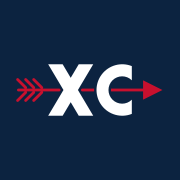
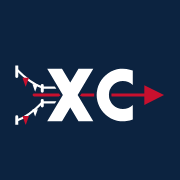
Add files via upload

Changed region(s): [[0.0833, 0.3333, 0.9167, 0.6944]]

diff --git a/index.html b/index.html
@@ -97,7 +97,12 @@ button{font:inherit;color:inherit;background:none;border:none;cursor:pointer;tou
 @keyframes splLand{from{opacity:0;transform:scale(.84)}to{opacity:1;transform:scale(1)}}
 @keyframes splFade{from{opacity:0}to{opacity:1}}
 .spl-arrow{animation:splFly .78s cubic-bezier(.16,.84,.32,1) backwards}
-/* 4.75: the new mark, XC centred at 94,36 in its 188 by 72 box. */
+/* 4.75: the new mark, XC centred at 94,36 in its 188 by 72 box.
+   4.96: the feathers became a finish chute (posts, sagging ropes, pennants,
+   a lane into the X). On the splash the chute stands still and only the
+   arrow flies, so the runner comes down the chute; the headers and icons
+   carry a small cut of the same chute (two posts a side, one rope, heavier
+   lines) since the full one turns to speckle at 26px. */
 .spl-xc{animation:splLand .38s ease-out .66s backwards;transform-origin:94px 36px}
 .spl-word{animation:splFade .55s ease-out 1.08s backwards}
 @media (prefers-reduced-motion:reduce){
@@ -942,13 +947,24 @@ body.haslive .sheet:not(.compact) .sheet-in{max-height:calc(88dvh - var(--striph
 .rnrace .rtime{flex:0 0 auto;display:flex;flex-direction:column;align-items:flex-end;gap:3px}
 .rnrace .rtime .t{font-size:17px}
 .rnrace .rtime .rec{font-size:12px}
+/* 4.95: the panel carries the team score, so our row is coral; by place under
+   a big number that entering schools will move; Meet scores rows expand. */
+.mspanel,.msbtn{align-items:stretch}
+.msstat{padding:8px 16px 10px 60px;border-bottom:1px solid var(--rule)}
+.rbyp{display:block;font-size:12px;font-weight:500;letter-spacing:0;color:var(--ink-soft);margin-top:6px;line-height:1}
+.rhead .mspanel{margin-top:14px}
+.msp-row.us .msp-n,.msp-row.us .msp-s{color:var(--tape)}
+.msrow{grid-template-columns:34px minmax(0,1fr) auto 12px}
+.msrow .chev{width:12px;height:12px;color:var(--ink-soft);transition:transform .15s}
+.msrow[aria-expanded="true"] .chev{transform:rotate(180deg)}
 </style>
 </head>
 <body>
 <div id="splash">
 <svg class="spl-mark" viewBox="0 0 188 72" xmlns="http://www.w3.org/2000/svg" aria-hidden="true">
+<g class="spl-chute-lines"><path d="M4 5Q12.5 15.0 21 18" fill="none" stroke="#FFFFFF" stroke-width="1.5"/><path d="M21 18Q28.5 24.5 36 27" fill="none" stroke="#FFFFFF" stroke-width="1.5"/><polygon points="7.0,10.8 12.2,10.8 9.6,18.8" fill="#C8102E"/><polygon points="13.7,15.6 18.1,15.6 15.9,22.6" fill="#FFFFFF"/><polygon points="24.0,21.9 27.9,21.9 25.9,27.9" fill="#C8102E"/><polygon points="29.9,25.1 33.1,25.1 31.5,30.1" fill="#FFFFFF"/><path d="M4 0.5V13.5" stroke="#FFFFFF" stroke-width="2.6" stroke-linecap="round"/><path d="M21 14.8V23.9" stroke="#FFFFFF" stroke-width="2.6" stroke-linecap="round"/><path d="M36 24.9V30.9" stroke="#FFFFFF" stroke-width="2.2" stroke-linecap="round"/><path d="M4 67Q12.5 64.0 21 54" fill="none" stroke="#FFFFFF" stroke-width="1.5"/><path d="M21 54Q28.5 51.5 36 45" fill="none" stroke="#FFFFFF" stroke-width="1.5"/><polygon points="7.0,64.3 12.2,64.3 9.6,72.3" fill="#C8102E"/><polygon points="13.7,59.4 18.1,59.4 15.9,66.4" fill="#FFFFFF"/><polygon points="24.0,51.9 27.9,51.9 25.9,57.9" fill="#C8102E"/><polygon points="29.9,48.5 33.1,48.5 31.5,53.5" fill="#FFFFFF"/><path d="M4 62.5V75.5" stroke="#FFFFFF" stroke-width="2.6" stroke-linecap="round"/><path d="M21 50.9V59.9" stroke="#FFFFFF" stroke-width="2.6" stroke-linecap="round"/><path d="M36 42.9V48.9" stroke="#FFFFFF" stroke-width="2.2" stroke-linecap="round"/><path d="M36 27H53M36 45H53" fill="none" stroke="#FFFFFF" stroke-width="1.5" stroke-linecap="round"/></g>
 <g class="spl-arrow">
-<path d="M4 23 14 33M14 23 24 33M24 23 34 33M4 49 14 39M14 49 24 39M24 49 34 39M5 36H162" fill="none" stroke="#C8102E" stroke-width="3.5" stroke-linecap="round"/><polygon points="160,24 184,36 160,48" fill="#C8102E"/>
+<path d="M26 36H162" fill="none" stroke="#C8102E" stroke-width="3.5" stroke-linecap="round"/><polygon points="160,24 184,36 160,48" fill="#C8102E"/>
 </g>
 <path class="spl-xc" d="M42 4H60L98 68H80Z M80 4H98L60 68H42Z M146 6.3A32 32 0 1 0 146 65.7L146 48.04A17 17 0 1 1 146 23.96Z" fill="#FFFFFF" stroke="#0C2340" stroke-width="6" stroke-linejoin="round" paint-order="stroke"/>
 </svg>
@@ -960,7 +976,7 @@ body.haslive .sheet:not(.compact) .sheet-in{max-height:calc(88dvh - var(--striph
 <!-- SEASON AND RUNNERS, 4.57 -->
 <section class="screen" id="season">
   <div class="bar homebar">
-    <svg class="mark" viewBox="0 0 188 72" aria-hidden="true"><path d="M4 23 14 33M14 23 24 33M24 23 34 33M4 49 14 39M14 49 24 39M24 49 34 39M5 36H162" fill="none" stroke="#C8102E" stroke-width="3.5" stroke-linecap="round"/><polygon points="160,24 184,36 160,48" fill="#C8102E"/><path d="M42 4H60L98 68H80Z M80 4H98L60 68H42Z M146 6.3A32 32 0 1 0 146 65.7L146 48.04A17 17 0 1 1 146 23.96Z" fill="#FFFFFF" stroke="#0C2340" stroke-width="6" stroke-linejoin="round" paint-order="stroke"/></svg>
+    <svg class="mark" viewBox="0 0 188 72" aria-hidden="true"><path d="M5 5Q20.5 21.0 36 27" fill="none" stroke="#FFFFFF" stroke-width="2.6"/><polygon points="11.9,15.0 19.8,15.0 15.8,26.0" fill="#C8102E"/><polygon points="24.1,22.9 30.6,22.9 27.3,31.9" fill="#FFFFFF"/><path d="M5 0.5V13.5M36 24.5V31.5" stroke="#FFFFFF" stroke-width="3.6" stroke-linecap="round"/><path d="M5 67Q20.5 61.0 36 45" fill="none" stroke="#FFFFFF" stroke-width="2.6"/><polygon points="11.9,61.6 19.8,61.6 15.8,72.6" fill="#C8102E"/><polygon points="24.1,53.2 30.6,53.2 27.3,62.2" fill="#FFFFFF"/><path d="M5 62.5V75.5M36 42.5V49.5" stroke="#FFFFFF" stroke-width="3.6" stroke-linecap="round"/><path d="M36 27H53M36 45H53" fill="none" stroke="#FFFFFF" stroke-width="2.6" stroke-linecap="round"/><path d="M26 36H162" fill="none" stroke="#C8102E" stroke-width="3.5" stroke-linecap="round"/><polygon points="160,24 184,36 160,48" fill="#C8102E"/><path d="M42 4H60L98 68H80Z M80 4H98L60 68H42Z M146 6.3A32 32 0 1 0 146 65.7L146 48.04A17 17 0 1 1 146 23.96Z" fill="#FFFFFF" stroke="#0C2340" stroke-width="6" stroke-linejoin="round" paint-order="stroke"/></svg>
     <span class="wordmark">SEASON</span>
     <span class="season"></span>
   </div>
@@ -976,7 +992,7 @@ body.haslive .sheet:not(.compact) .sheet-in{max-height:calc(88dvh - var(--striph
 </section>
 <section class="screen" id="runners">
   <div class="bar homebar">
-    <svg class="mark" viewBox="0 0 188 72" aria-hidden="true"><path d="M4 23 14 33M14 23 24 33M24 23 34 33M4 49 14 39M14 49 24 39M24 49 34 39M5 36H162" fill="none" stroke="#C8102E" stroke-width="3.5" stroke-linecap="round"/><polygon points="160,24 184,36 160,48" fill="#C8102E"/><path d="M42 4H60L98 68H80Z M80 4H98L60 68H42Z M146 6.3A32 32 0 1 0 146 65.7L146 48.04A17 17 0 1 1 146 23.96Z" fill="#FFFFFF" stroke="#0C2340" stroke-width="6" stroke-linejoin="round" paint-order="stroke"/></svg>
+    <svg class="mark" viewBox="0 0 188 72" aria-hidden="true"><path d="M5 5Q20.5 21.0 36 27" fill="none" stroke="#FFFFFF" stroke-width="2.6"/><polygon points="11.9,15.0 19.8,15.0 15.8,26.0" fill="#C8102E"/><polygon points="24.1,22.9 30.6,22.9 27.3,31.9" fill="#FFFFFF"/><path d="M5 0.5V13.5M36 24.5V31.5" stroke="#FFFFFF" stroke-width="3.6" stroke-linecap="round"/><path d="M5 67Q20.5 61.0 36 45" fill="none" stroke="#FFFFFF" stroke-width="2.6"/><polygon points="11.9,61.6 19.8,61.6 15.8,72.6" fill="#C8102E"/><polygon points="24.1,53.2 30.6,53.2 27.3,62.2" fill="#FFFFFF"/><path d="M5 62.5V75.5M36 42.5V49.5" stroke="#FFFFFF" stroke-width="3.6" stroke-linecap="round"/><path d="M36 27H53M36 45H53" fill="none" stroke="#FFFFFF" stroke-width="2.6" stroke-linecap="round"/><path d="M26 36H162" fill="none" stroke="#C8102E" stroke-width="3.5" stroke-linecap="round"/><polygon points="160,24 184,36 160,48" fill="#C8102E"/><path d="M42 4H60L98 68H80Z M80 4H98L60 68H42Z M146 6.3A32 32 0 1 0 146 65.7L146 48.04A17 17 0 1 1 146 23.96Z" fill="#FFFFFF" stroke="#0C2340" stroke-width="6" stroke-linejoin="round" paint-order="stroke"/></svg>
     <span class="wordmark">RUNNERS</span>
     <span class="season"></span>
   </div>
@@ -1004,8 +1020,8 @@ body.haslive .sheet:not(.compact) .sheet-in{max-height:calc(88dvh - var(--striph
 <!-- HOME -->
 <section class="screen on" id="home">
   <div class="bar homebar">
-    <svg class="mark" viewBox="0 0 188 72" aria-hidden="true"><path d="M4 23 14 33M14 23 24 33M24 23 34 33M4 49 14 39M14 49 24 39M24 49 34 39M5 36H162" fill="none" stroke="#C8102E" stroke-width="3.5" stroke-linecap="round"/><polygon points="160,24 184,36 160,48" fill="#C8102E"/><path d="M42 4H60L98 68H80Z M80 4H98L60 68H42Z M146 6.3A32 32 0 1 0 146 65.7L146 48.04A17 17 0 1 1 146 23.96Z" fill="#FFFFFF" stroke="#0C2340" stroke-width="6" stroke-linejoin="round" paint-order="stroke"/></svg>
-    <span class="wordmark">THE CHUTE</span>
+    <svg class="mark" viewBox="0 0 188 72" aria-hidden="true"><path d="M5 5Q20.5 21.0 36 27" fill="none" stroke="#FFFFFF" stroke-width="2.6"/><polygon points="11.9,15.0 19.8,15.0 15.8,26.0" fill="#C8102E"/><polygon points="24.1,22.9 30.6,22.9 27.3,31.9" fill="#FFFFFF"/><path d="M5 0.5V13.5M36 24.5V31.5" stroke="#FFFFFF" stroke-width="3.6" stroke-linecap="round"/><path d="M5 67Q20.5 61.0 36 45" fill="none" stroke="#FFFFFF" stroke-width="2.6"/><polygon points="11.9,61.6 19.8,61.6 15.8,72.6" fill="#C8102E"/><polygon points="24.1,53.2 30.6,53.2 27.3,62.2" fill="#FFFFFF"/><path d="M5 62.5V75.5M36 42.5V49.5" stroke="#FFFFFF" stroke-width="3.6" stroke-linecap="round"/><path d="M36 27H53M36 45H53" fill="none" stroke="#FFFFFF" stroke-width="2.6" stroke-linecap="round"/><path d="M26 36H162" fill="none" stroke="#C8102E" stroke-width="3.5" stroke-linecap="round"/><polygon points="160,24 184,36 160,48" fill="#C8102E"/><path d="M42 4H60L98 68H80Z M80 4H98L60 68H42Z M146 6.3A32 32 0 1 0 146 65.7L146 48.04A17 17 0 1 1 146 23.96Z" fill="#FFFFFF" stroke="#0C2340" stroke-width="6" stroke-linejoin="round" paint-order="stroke"/></svg>
+    <span class="wordmark">EVENTS</span>
     <span class="season" id="seasonLabel"></span>
   </div>
   <div class="scroll pad" id="homeBody"></div>
@@ -1173,7 +1189,7 @@ body.haslive .sheet:not(.compact) .sheet-in{max-height:calc(88dvh - var(--striph
 <!-- SETTINGS -->
 <section class="screen" id="settings">
   <div class="bar homebar">
-    <svg class="mark" viewBox="0 0 188 72" aria-hidden="true"><path d="M4 23 14 33M14 23 24 33M24 23 34 33M4 49 14 39M14 49 24 39M24 49 34 39M5 36H162" fill="none" stroke="#C8102E" stroke-width="3.5" stroke-linecap="round"/><polygon points="160,24 184,36 160,48" fill="#C8102E"/><path d="M42 4H60L98 68H80Z M80 4H98L60 68H42Z M146 6.3A32 32 0 1 0 146 65.7L146 48.04A17 17 0 1 1 146 23.96Z" fill="#FFFFFF" stroke="#0C2340" stroke-width="6" stroke-linejoin="round" paint-order="stroke"/></svg>
+    <svg class="mark" viewBox="0 0 188 72" aria-hidden="true"><path d="M5 5Q20.5 21.0 36 27" fill="none" stroke="#FFFFFF" stroke-width="2.6"/><polygon points="11.9,15.0 19.8,15.0 15.8,26.0" fill="#C8102E"/><polygon points="24.1,22.9 30.6,22.9 27.3,31.9" fill="#FFFFFF"/><path d="M5 0.5V13.5M36 24.5V31.5" stroke="#FFFFFF" stroke-width="3.6" stroke-linecap="round"/><path d="M5 67Q20.5 61.0 36 45" fill="none" stroke="#FFFFFF" stroke-width="2.6"/><polygon points="11.9,61.6 19.8,61.6 15.8,72.6" fill="#C8102E"/><polygon points="24.1,53.2 30.6,53.2 27.3,62.2" fill="#FFFFFF"/><path d="M5 62.5V75.5M36 42.5V49.5" stroke="#FFFFFF" stroke-width="3.6" stroke-linecap="round"/><path d="M36 27H53M36 45H53" fill="none" stroke="#FFFFFF" stroke-width="2.6" stroke-linecap="round"/><path d="M26 36H162" fill="none" stroke="#C8102E" stroke-width="3.5" stroke-linecap="round"/><polygon points="160,24 184,36 160,48" fill="#C8102E"/><path d="M42 4H60L98 68H80Z M80 4H98L60 68H42Z M146 6.3A32 32 0 1 0 146 65.7L146 48.04A17 17 0 1 1 146 23.96Z" fill="#FFFFFF" stroke="#0C2340" stroke-width="6" stroke-linejoin="round" paint-order="stroke"/></svg>
     <span class="wordmark">SETTINGS</span>
     <span class="season"></span>
   </div>
@@ -1409,7 +1425,7 @@ body.haslive .sheet:not(.compact) .sheet-in{max-height:calc(88dvh - var(--striph
 (function(){
 'use strict';
 
-var BUILD='v4.94';
+var BUILD='v4.96';
 var KEY='chute.v1';
 var SKEY='chute.season.v1';
 
@@ -1760,7 +1776,7 @@ var HOW=[
   'Results show the score, the five places that make it, and the pack: the average time of the five, and the spread from first to fifth.',
   'The score is built from every place in the race, not only ours, which is why every runner has to be tapped. With Timing on <b>Team</b>, only ours are timed, so there\u2019s no score.',
   'On its own, the app scores ours against every place in the race. For the real score, runners past a school\u2019s seventh and unattached runners come out first and the rest move up, so it can be lower. A school with fewer than five has no score, and its runners come out too: they\u2019re listed under their school but don\u2019t push anyone back.',
-  '<b>Meet scores</b>, under the score on Results, scores the whole meet that way. Enter each school\u2019s places from the meet\u2019s sheet, or paste the sheet in one go; ours come from the race. It shows every school\u2019s score and place beside its score by place (the five places as they stand, the way it\u2019s scored by hand), flags a place two schools claim, and copies the lot for the head coach. Once schools are in, home and Results show our score under the rule and our place.',
+  '<b>Meet scores</b>, on Results, scores the whole meet that way. Enter each school\u2019s places from the meet\u2019s sheet, or paste the sheet in one go; ours come from the race. It shows every school\u2019s score and place beside its score by place (the five places as they stand, the way it\u2019s scored by hand), flags a place two schools claim, and copies the lot for the head coach. Before any school is in, the score on Results is by place. Once schools are in, Results leads with the top three and our place, and Meet scores opens on our row with its places, average and spread.',
   'The <b>Team</b> tab and <b>All</b> tab above the list of finishers switch between our runners and every place in the race.',
   'A runner who started and dropped out, or was expected and never started, can be listed with <b>Didn\u2019t finish</b> in Edit race, on any phone. They show under the placed runners, on Edit race and Results, as DNF or DNS and never change the score, places or PRs. To take one off, tap it in Edit race.']},
  {t:'Time trials', p:[
@@ -4797,7 +4813,7 @@ function flagText(f){
   return esc(f.school)+' lists '+f.n+'. The first seven count.';
 }
 function openMeetScores(){
-  msOpen={}; msEdit=null; msMsg=''; msText=''; msRead=null; msPaste=!schoolsOf(msRace()).length;
+  msOpen={}; msOpen['t:'+OURS_KEY]=true; msEdit=null; msMsg=''; msText=''; msRead=null; msPaste=!schoolsOf(msRace()).length;
   backTo='results'; show('mscore');
 }
 function renderMeetScores(){
@@ -4811,14 +4827,17 @@ function renderMeetScores(){
     if(fl.length) h+='<div class="msflags">'+fl.map(function(f){ return '<div>'+flagText(f)+'</div>'; }).join('')+'</div>';
     h+='<div class="hsect rsect">Standings</div>';
     var rawOf={}; res.raw.forEach(function(t){ rawOf[t.school]=t; });
+    /* 4.95: a down chevron, as on Events, since a row opens in place rather
+       than opening a page; and each school's top five average on its line. */
+    var CHV='<svg class="chev" viewBox="0 0 12 12" aria-hidden="true"><path d="M2.5 4.5 6 8 9.5 4.5" fill="none" stroke="currentColor" stroke-width="1.6" stroke-linecap="round" stroke-linejoin="round"/></svg>';
     res.maac.forEach(function(t){
       var k='t:'+t.school, open=!!msOpen[k], raw=rawOf[t.school];
       h+='<button type="button" class="msrow'+(t.school===OURS_KEY?' home':'')+'" data-k="'+esc(k)+'" aria-expanded="'+open+'">'+
          '<span class="msp num">'+t.place+'</span>'+
          '<span class="msn"><span class="mss">'+esc(schoolLabel(t.school))+'</span>'+
-         '<span class="mspl num">'+t.scorers.join('+')+(t.disp.length?' ('+t.disp.join(', ')+')':'')+'</span></span>'+
-         '<span class="msc"><span class="msv num">'+t.score+'</span><span class="msr num">by place '+raw.score+'</span></span></button>';
-      if(open) h+=msRunners(t.school,res)+msEntry(r,t.school);
+         '<span class="mspl num">'+t.scorers.join('+')+(t.disp.length?' ('+t.disp.join(', ')+')':'')+msAvgText(t.school,res)+'</span></span>'+
+         '<span class="msc"><span class="msv num">'+t.score+'</span><span class="msr num">by place '+raw.score+'</span></span>'+CHV+'</button>';
+      if(open) h+=msRunners(t.school,res)+msEntry(r,t.school)+(t.school===OURS_KEY?msOurStats():'');
     });
     if(res.small.length){
       h+='<div class="hsect rsect">No team score</div>';
@@ -4828,7 +4847,7 @@ function renderMeetScores(){
            '<span class="msp num"></span>'+
            '<span class="msn"><span class="mss">'+esc(schoolLabel(t.school))+'</span>'+
            '<span class="mspl num">'+(t.raw.length?'Places '+t.raw.join(', '):'')+'</span></span>'+
-           '<span class="msc"><span class="msr num">'+t.raw.length+(t.raw.length===1?' finisher':' finishers')+'</span></span></button>';
+           '<span class="msc"><span class="msr num">'+t.raw.length+(t.raw.length===1?' finisher':' finishers')+'</span></span>'+CHV+'</button>';
         if(open) h+=msRunners(t.school,res)+msEntry(r,t.school);
       });
     }
@@ -4891,6 +4910,19 @@ function renderMeetScores(){
    and the scoring place when it has one. Ours carry their names. */
 /* Under an opened school: its places as entered, and Edit. Ours come from
    the race, so they have neither. */
+/* 4.95: a school's top five average, from the times on its scoring places.
+   Empty for a school with fewer than five of them. */
+function msAvgText(k,res){
+  var ps=Object.keys(res.owner).map(Number).filter(function(p){ return res.owner[p]===k && res.adj[p] && S.fin[p-1]; }).sort(numAsc).slice(0,5);
+  if(ps.length<5) return '';
+  var s=0; ps.forEach(function(p){ s+=S.fin[p-1].ms; });
+  return ' \u00b7 Avg '+fmt(s/5,0);
+}
+/* Under our open row, what left the Results header in 4.95. */
+function msOurStats(){
+  var st=scoringStats(); if(!st) return '';
+  return '<div class="msstat"><span class="mspl num">Top 5 Avg '+fmt(st.avg,0)+' \u00b7 Spread '+fmt(st.spread,0)+'</span></div>';
+}
 function msEntry(r,k){
   if(k===OURS_KEY) return '';
   var c=schoolsOf(r).filter(function(x){ return x.s===k; })[0];
@@ -6532,6 +6564,12 @@ function renderResults(){
   var shownDisp=disp;
   if(mr && mr.score!=null){ score=mr.score; shown=mr.scorers; shownDisp=mr.disp; }
   var sst=scoringStats();
+  /* 4.95: once we are in the standings, the panel carries our score (coral)
+     and the big number goes; the places, average and spread are a tap away,
+     on Meet scores with our row open. Before any school is in, the big
+     number stays, marked by place, since entering schools will move it. */
+  var meIn = complete && !!(mr && mr.res.maac.some(function(t){ return t.school===OURS_KEY; }));
+  var byPlace = complete && !mr && meetScorable(sRaceLike());
 
   /* The score, the five that made it, and the two behind them, in one block.
      Everything that explains the number lives behind the info button instead of
@@ -6542,8 +6580,8 @@ function renderResults(){
      '<div class="rid"><span class="ridtext">'+esc(S.name)+'</span>'+
      '<button type="button" class="info" id="resInfo" aria-label="About this score">i</button></div>'+
      '<div class="rwhen num">'+esc([S.date?fmtDate(S.date,true):'', meetDist()].filter(Boolean).join(' \u00b7 '))+'</div>'+
-     '<div class="rgrid">'+
-       '<div class="rscore num">'+(complete?score:(tonly?'':'&#183;'))+'</div>'+
+     (meIn ? '' : '<div class="rgrid">'+
+       '<div class="rscore num">'+(complete?score:(tonly?'':'&#183;'))+(byPlace?'<span class="rbyp">by place</span>':'')+'</div>'+
        '<div class="rside">'+
          '<div class="req num">'+(complete
             ? shown.join('<span class="op">+</span>')+
@@ -6552,7 +6590,7 @@ function renderResults(){
             : 'Need 5 finishers to score. You have '+ours.length+'.')+'</div>'+
          (sst?'<div class="rstat num">Top 5 Avg '+fmt(sst.avg,0)+' \u00b7 Spread '+fmt(sst.spread,0)+'</div>':'')+
        '</div>'+
-     '</div>'+
+     '</div>')+
      (meetScorable(sRaceLike()) ? msPanel(mr) : '')+
      '</div>';
 
@@ -6614,10 +6652,10 @@ function renderResults(){
   if($('resMeet')) $('resMeet').addEventListener('click',openMeetScores);
   resNote = tonly
     ? ['Only our runners were timed in this race, so <b>places are team places</b> and there is no score. If the full field is loaded later, places and the score follow from it.']
-    : mr ? ['Scored from the places each school reported in <b>Meet scores</b>. Runners past a school\u2019s seventh, runners nobody claimed and the runners of any school with fewer than five come out, and the rest are renumbered. The places beside the score are scoring places; the list below keeps overall places.']
+    : mr ? ['Scored from the places each school reported in <b>Meet scores</b>. Runners past a school\u2019s seventh, runners nobody claimed and the runners of any school with fewer than five come out, and the rest are renumbered. '+(meIn?'Our score is our row in the standings; tap it for our scoring places, average and spread.':'The places beside the score are scoring places;')+' The list below keeps overall places.']
     : ['Places are <b>raw order across the whole field</b>. For the real score, runners past a school\u2019s seventh, unattached runners and the runners of schools with fewer than five come out first, so it can be lower. Enter the other schools in <b>Meet scores</b> to score it properly. A missed or extra tap moves it.'];
   if(unnamed) resNote.push('<b>'+unnamed+' of your '+(unnamed===1?'places':'places')+' still '+(unnamed===1?'needs':'need')+' a name.</b> The score above is already final, since it only depends on where your runners crossed.');
-  if(disp.length) resNote.push('The '+(disp.length===1?'one':'two')+' in brackets '+(disp.length===1?'is a <b>displacer</b>. It scores':'are <b>displacers</b>. They score')+' no points of '+(disp.length===1?'its':'their')+' own, '+(disp.length===1?'it pushes':'they push')+' other teams\' runners further back.');
+  if(disp.length && !meIn) resNote.push('The '+(disp.length===1?'one':'two')+' in brackets '+(disp.length===1?'is a <b>displacer</b>. It scores':'are <b>displacers</b>. They score')+' no points of '+(disp.length===1?'its':'their')+' own, '+(disp.length===1?'it pushes':'they push')+' other teams\' runners further back.');
   $('resInfo').addEventListener('click',function(){ infoOpen('About this score',resNote); });
   /* The scope is named on the button rather than left to the segment above,
      because the copy is the thing you cannot take back once it is pasted. */
@@ -6699,7 +6737,8 @@ function splitsOnlyCsv(){
 /* 4.73: the way into Meet scores, made hard to miss. With no schools entered,
    a red-outlined Score the meet with a line saying what it is for. With
    schools in, the top of the standings in a panel: the first three, and us
-   in bold, after a gap if we are further down. The whole panel is the tap
+   in bold, after a gap if we are further down (4.95: the first three, then
+   us, and our row in coral, since it is the team score). The whole panel is the tap
    into Meet scores. Where meet scores cannot apply (a time trial, Team only,
    no finishes) the caller shows nothing. */
 function msPanel(mr){
@@ -6711,12 +6750,12 @@ function msPanel(mr){
   var rows=mr.res.maac, me=null;
   rows.forEach(function(t){ if(t.school===OURS_KEY) me=t; });
   var top=rows.slice(0,3), gap=false;
-  if(me && top.indexOf(me)<0){ top=rows.slice(0,2).concat([me]); gap=true; }
+  if(me && top.indexOf(me)<0){ top=rows.slice(0,3).concat([me]); gap=true; }
   var h='<button type="button" class="mspanel" id="resMeet"><span class="msp-head"><span>Meet scores</span>'+
         '<span class="msp-of">'+rows.length+(rows.length===1?' team':' teams')+chev+'</span></span>';
   if(!rows.length) h+='<span class="msp-none">No school has five finishers yet.</span>';
   top.forEach(function(t,i){
-    if(gap && i===2) h+='<span class="msp-gap" aria-hidden="true">\u22ef</span>';
+    if(gap && i===3) h+='<span class="msp-gap" aria-hidden="true">\u22ef</span>';
     h+='<span class="msp-row'+(t===me?' us':'')+'"><span class="msp-p num">'+t.place+'</span>'+
        '<span class="msp-n">'+esc(schoolLabel(t.school))+'</span><span class="msp-s num">'+t.score+'</span></span>';
   });
